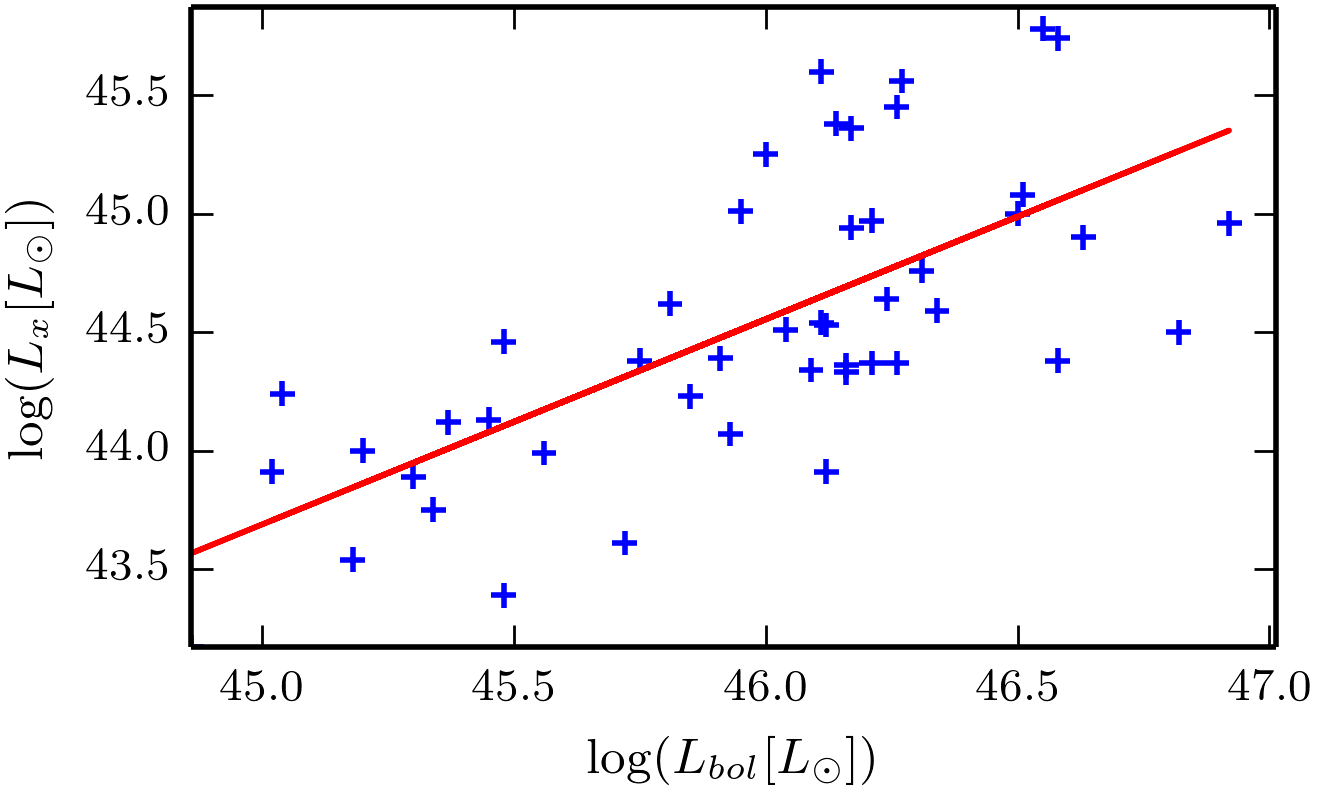
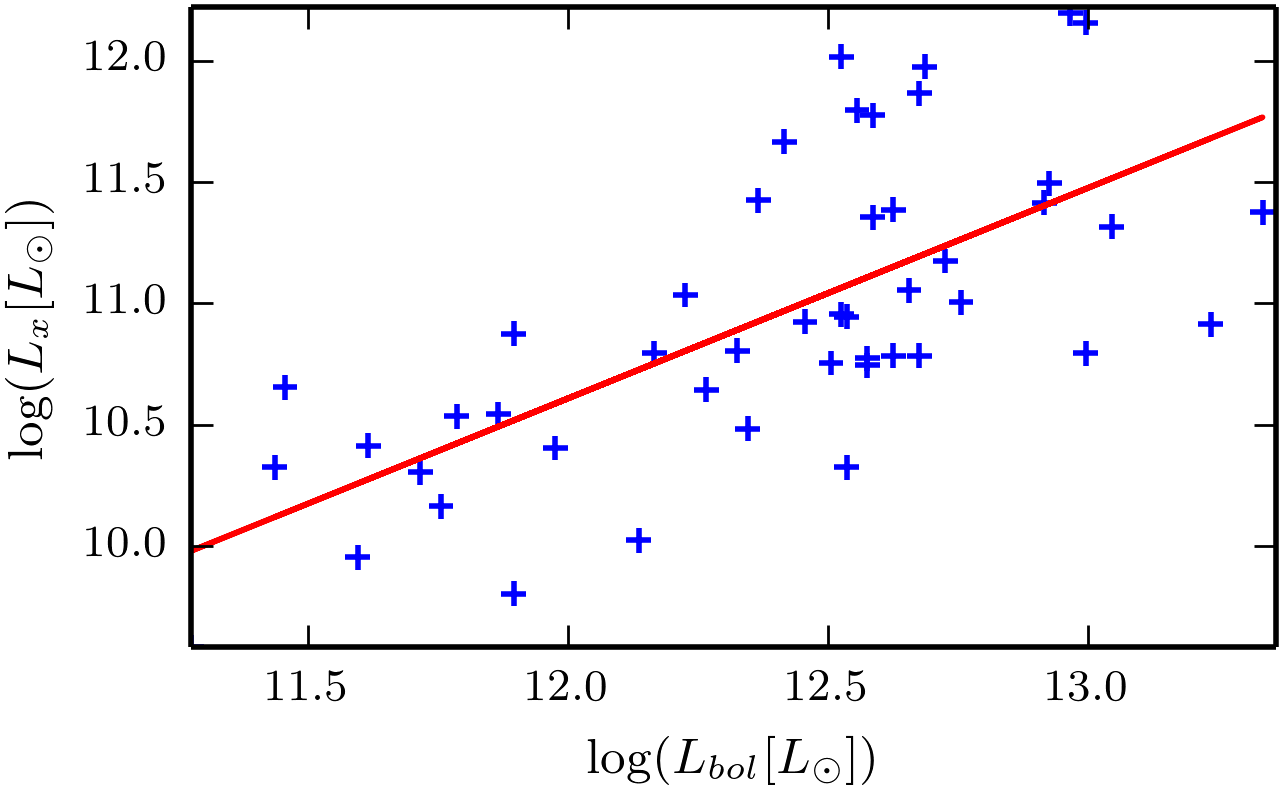
Added new gas plots.

diff --git a/makePlots.py b/makePlots.py
@@ -22,10 +22,13 @@ def save_fig(name):
 
 axisLabelTextSize = 9
 
+# H_0 = 70.4 km/s/Mpc
+massConversionFactor = 4.3e10 #1e10 / 0.704
+
 data = np.loadtxt('elvis_templates.csv',delimiter=',')
 
-L_bol = data[:,0]
-L_xray = data[:,1]
+L_bol = data[:,0]-np.log10(3.846e33)
+L_xray = data[:,1]-np.log10(3.846e33)
 p = np.poly1d(np.polyfit(L_bol,L_xray,1))
 fig = make_fig()
 plt.scatter(L_bol,L_xray, marker='+', c='blue')
@@ -43,8 +46,8 @@ catalog = readsubfHDF5.subfind_catalog(basedir,snapid)
 
 goodMassMask = (catalog.GroupBHMass > 0) * (catalog.GroupBHMdot > 0)
 
-# Convert to physical units (M_sun, M_sun/yr)
-bm_phys = 4.3e10 * catalog.GroupBHMass[goodMassMask]
+# Convert to physical units (M_sun, M_sun/s)
+bm_phys = massConversionFactor * catalog.GroupBHMass[goodMassMask]
 bmdot_phys = 9.72e-7 * catalog.GroupBHMdot[goodMassMask]
 
 fig = make_fig()
@@ -91,7 +94,7 @@ print "Max BH mass = %.3E" % bm_phys.max()
 print "M+Mdot fit parms = " , p
 
 fig = make_fig()
-plt.plot(np.linspace(5., 11., 100), np.polyval(p, np.linspace(5., 11., 100)), c = 'g', linestyle = '--')
+#plt.plot(np.linspace(5., 11., 100), np.polyval(p, np.linspace(5., 11., 100)), c = 'g', linestyle = '--')
 H, xedges, yedges = np.histogram2d(np.log10(bm_phys), np.log10(bmdot_phys), 30)
 plt.imshow(H.T, origin='lower', extent=[xedges[0],xedges[-1],yedges[0],yedges[-1]], cmap='Oranges', norm=LogNorm(), aspect='auto', interpolation='none')
 cbar = plt.colorbar(shrink=0.8, pad=0.03)
@@ -104,25 +107,44 @@ save_fig('Figures/Illustris2_bhpop_hist2d.png')
 # Plot M_BH vs M_gas for each subhalo
 groupGasMass = catalog.GroupMassType[:,0]
 groupGasMass = groupGasMass[goodMassMask]
-groupGasMass = 1.26e6 * groupGasMass[goodFitMassMask]
+groupGasMass = massConversionFactor * groupGasMass[goodFitMassMask]
+
+groupMass = massConversionFactor * catalog.GroupMass[goodMassMask]
+groupMass = groupMass[goodFitMassMask]
 
 fig = make_fig()
-x = np.log10(groupGasMass)
+x = np.log10(groupGasMass / groupMass) + 2
 y = np.log10(bmdot_phys)
 z = np.log10(bm_phys)
-plt.scatter(x,y, c=z, alpha=0.5, marker='.', linewidths=0, cmap='hsv')
+plt.scatter(x,y, c=z, alpha=0.5, marker='.', s=3,linewidths=0, cmap='brg')
 cbar = plt.colorbar(shrink=0.8, pad=0.03)
+cbar.set_label(r'$\log(M_{BH} [M_{\odot}])$',fontsize=8)
 cbar.ax.tick_params(labelsize=6)
 plt.xlim(x.min(),x.max())
 plt.ylim(y.min(),y.max())
-plt.ylabel(r'$\log(\dot{M}_{BH} [M_{\odot}\,s^{-1}])$',fontsize=axisLabelTextSize)
-plt.xlabel(r'$\log(M_{gas} [M_{\odot}])$',fontsize=axisLabelTextSize)
-save_fig('Figures/Mdot_vs_Mgas.png')
+plt.xticks(np.linspace(-0.5,1.5,5),['{0:.1f}\%'.format(x) for x in 10**np.linspace(-0.5,1.5,5)])
+plt.ylabel(r'$\log(\dot{M}_{BH}\,[M_{\odot}\,s^{-1}])$',fontsize=axisLabelTextSize)
+plt.xlabel('$M_{gas}/M_{halo}$',fontsize=axisLabelTextSize)
+save_fig('Figures/Mdot_vs_GasFrac.png')
 
-## finding q and K
+fig = make_fig()
+x = np.log10(groupGasMass)
+y = np.log10(groupMass)
+z = np.log10(bm_phys)
+plt.scatter(x,y, c=z, alpha=0.5, marker='.',s=7,linewidths=0, cmap='brg')
+cbar = plt.colorbar(shrink=0.8, pad=0.03)
+cbar.set_label(r'$\log(M_{BH} [M_{\odot}])$',fontsize=8)
+cbar.ax.tick_params(labelsize=6)
+plt.xlim(x.min(),x.max())
+plt.ylim(y.min(),y.max())
+plt.ylabel(r'$\log(M_{group} [M_{\odot}])$',fontsize=axisLabelTextSize)
+plt.xlabel(r'$\log(M_{gas} [M_{\odot}])$',fontsize=axisLabelTextSize)
+save_fig('Figures/Mgroup_vs_Mgas.png')
+
+# finding q and K
 alpha = 4.648e19
-epsilon = 0.866
-eta = 4.705
+epsilon = 0.8663
+eta = 0.2145
 
 def thin_disk_approx(m_mdot, q, k):
     m = m_mdot[0]
